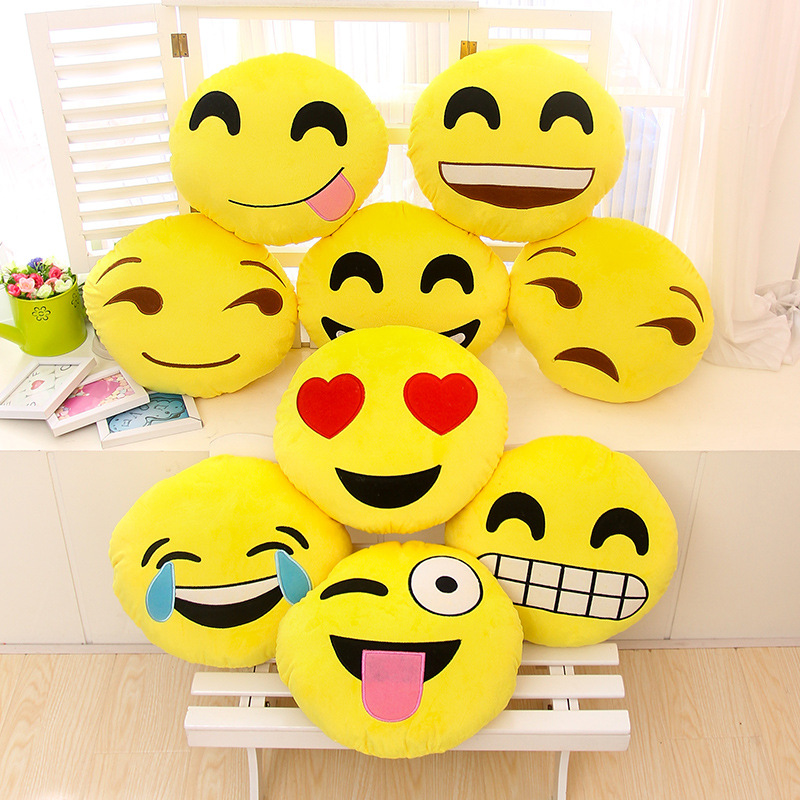
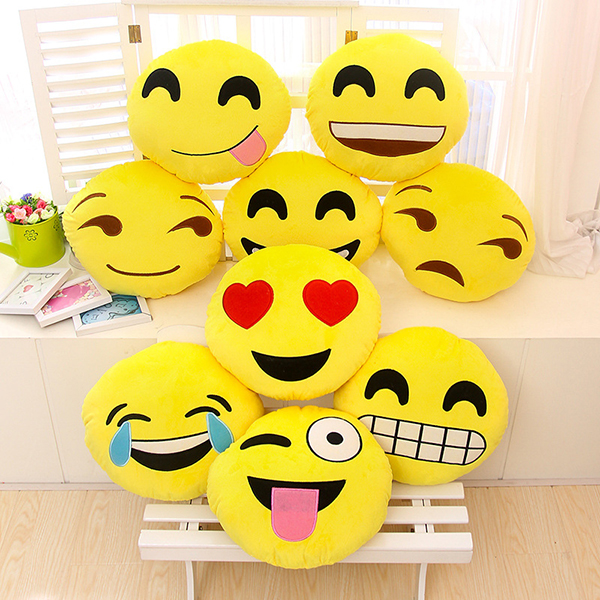
fixed scaling backg image

diff --git a/src/view/GameView.java b/src/view/GameView.java
@@ -96,7 +96,9 @@ public class GameView extends JFrame implements ActionListener {
 		turnPanel = new JPanel();
 		turnPanel.setAlignmentX(CENTER_ALIGNMENT);
 		turnPanel.setLayout(new GridBagLayout());
-//		turnPanel.setPreferredSize(new Dimension(boardSize, boardSize / 8));
+		turnPanel.setPreferredSize(new Dimension(boardSize, boardSize *2 / 11));
+		turnPanel.setBorder(BorderFactory.createTitledBorder(BorderFactory.createEtchedBorder(),
+				"", TitledBorder.CENTER, TitledBorder.TOP));
 		matchesLabel = new JLabel(getScaledImage(unselectedImage, boardDimension * 8, boardDimension * 8));
 		matchesLabel.setName("unselectedLabel");
 		image1 = getScaledImage(greenOn, boardDimension * 8, boardDimension * 8);
@@ -223,7 +225,7 @@ public class GameView extends JFrame implements ActionListener {
 		temp.setHorizontalAlignment(JLabel.CENTER);
 		temp.setOpaque(true);
 		temp.setBackground(Color.black);
-//		temp.setFont((new Font("dialog", Font.BOLD, fontSize)));
+		temp.setFont((boldFont));
 		if (sort == "S")
 			temp.setForeground(Color.ORANGE);
 		else if (sort == "N")

diff --git a/src/view/MyPanel.java b/src/view/MyPanel.java
@@ -17,7 +17,7 @@ public class MyPanel extends JPanel {
 	public void paintComponent(Graphics g) {
 		super.paintComponent(g);
 
-		g.drawImage( background, 5, 5, boardSize, boardSize, this );
+		g.drawImage( background, 5, 12, boardSize-boardSize*2/250, boardSize-boardSize*3/100, this );
 	}
 
 	public void setImage( ImageIcon imgIcon ) {
